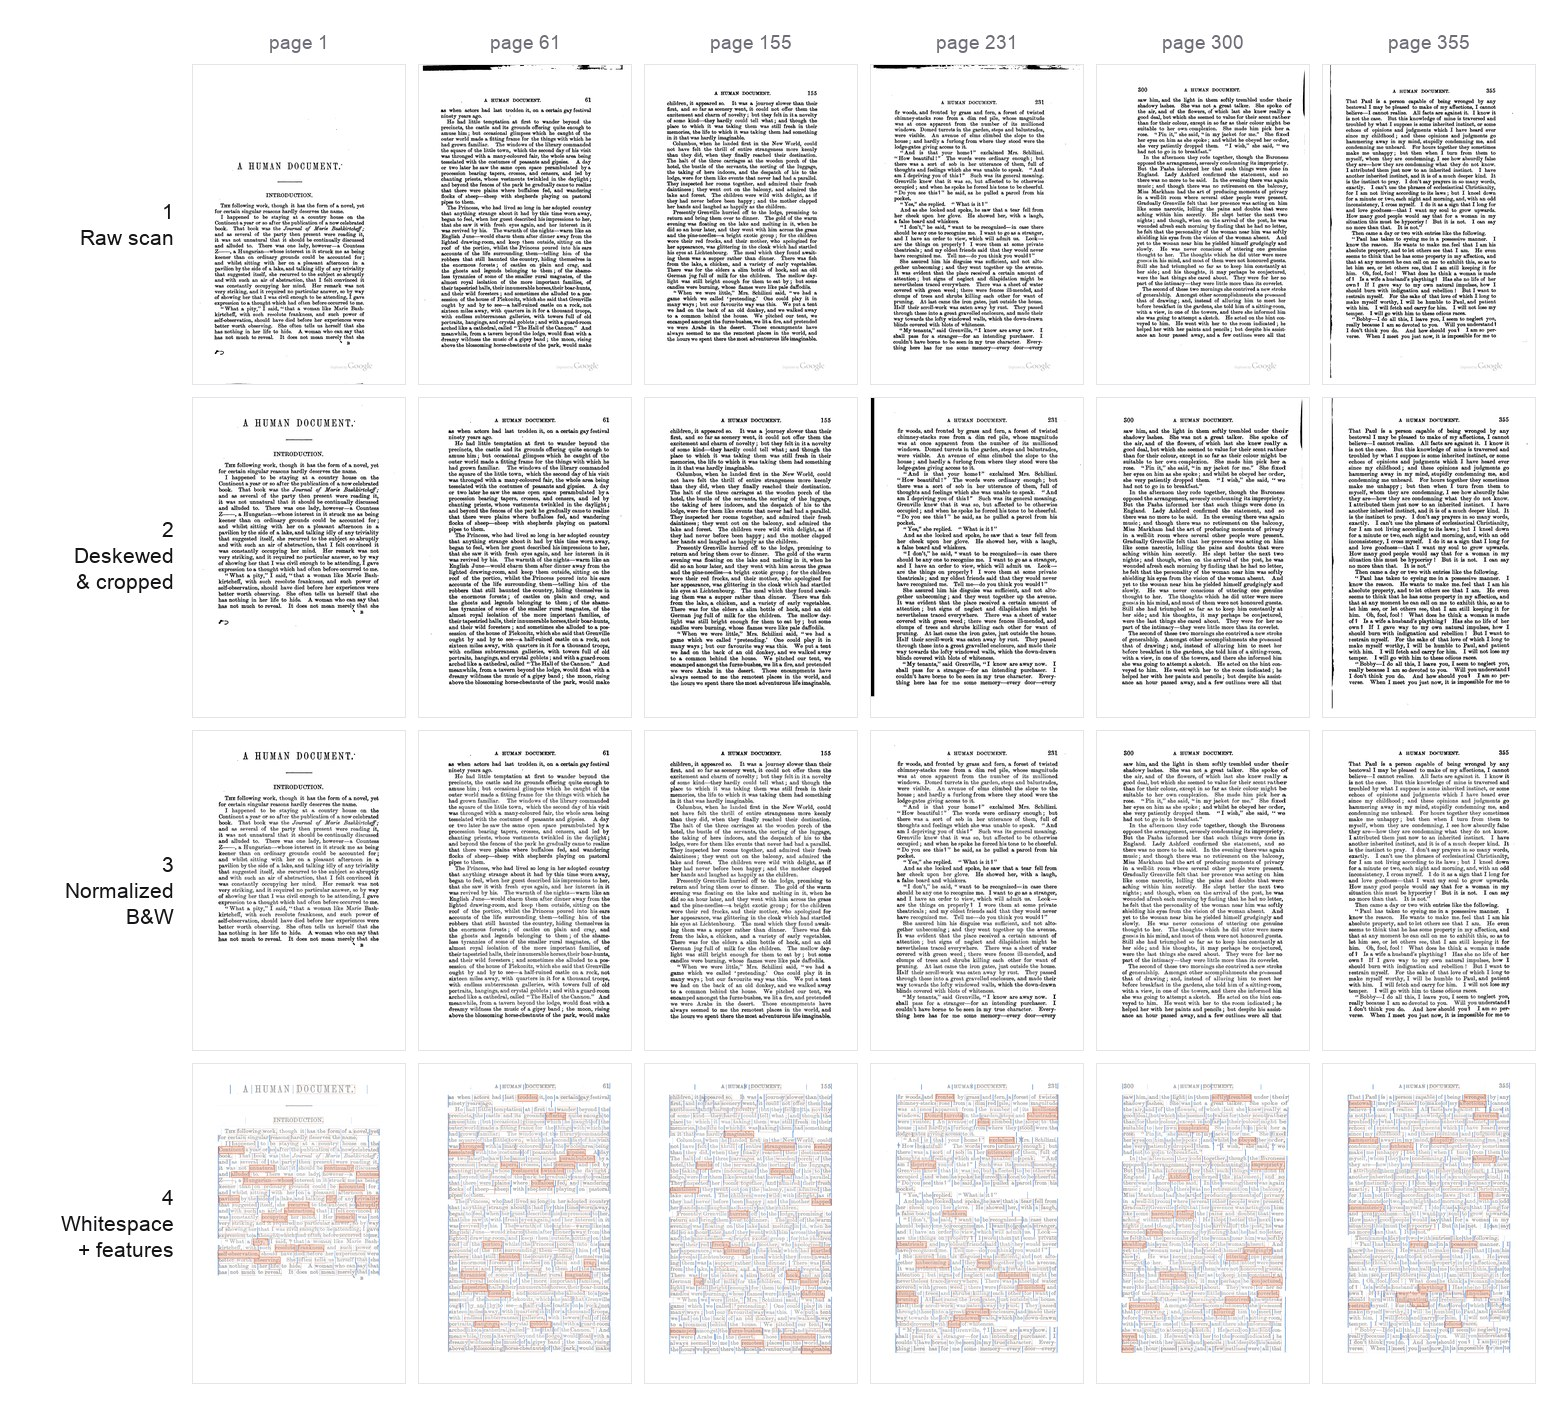
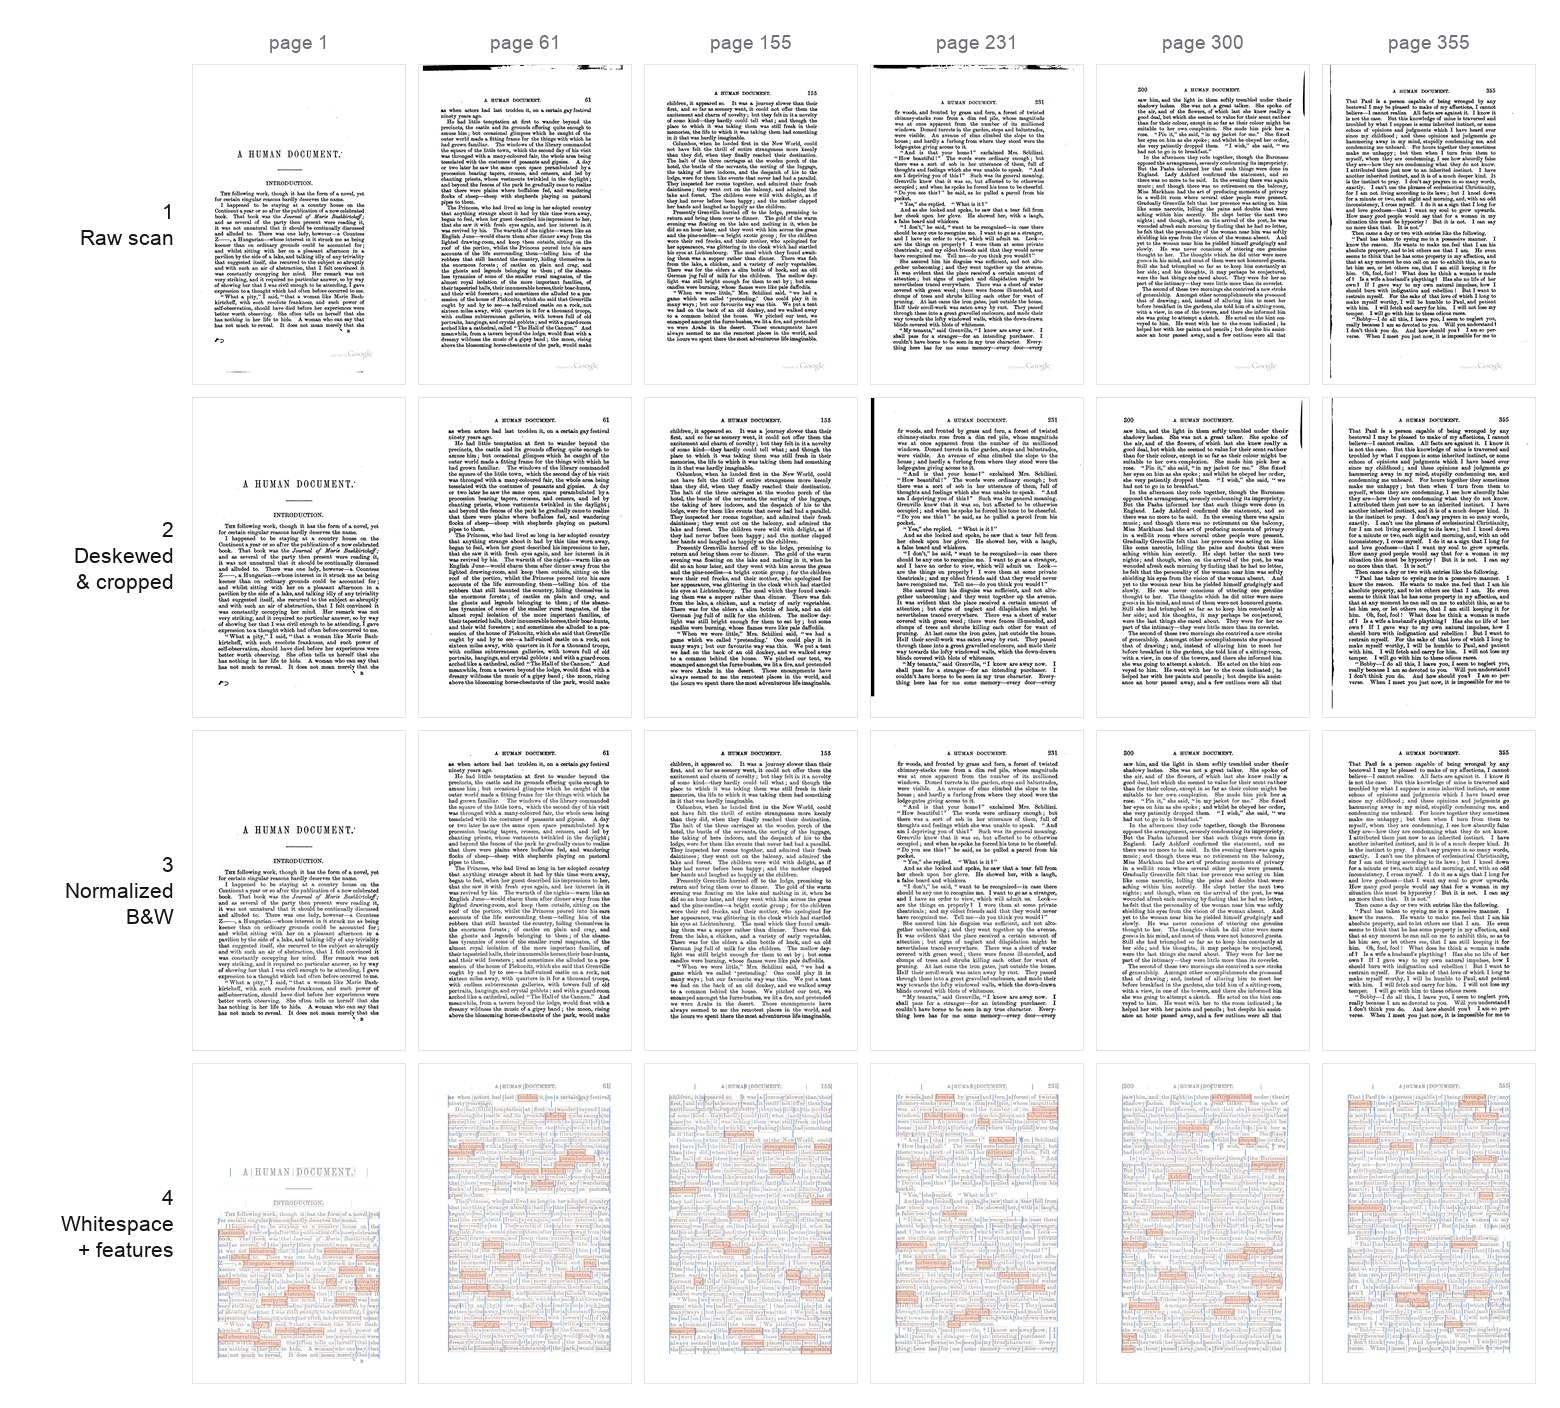
render_showcase: baseline-align the chapter-opening page in the stage collage
Page 1 (the INTRODUCTION opener) fills only the upper part of the sheet, so the
deskew/normalize stages left its text jammed to the top of the cell above a big
empty gap. Rest its last line on the median last-line height of the neighbouring
full pages (per stage, at matching scale) so it aligns with them.

diff --git a/pipeline/render_showcase.py b/pipeline/render_showcase.py
@@ -20,6 +20,7 @@ from __future__ import annotations
 import json
 import sqlite3
 
+import numpy as np
 from PIL import Image, ImageDraw, ImageFont
 
 from config import (
@@ -54,15 +55,35 @@ def _font(size: int) -> ImageFont.FreeTypeFont:
     return ImageFont.load_default()
 
 
-def _contain(img: Image.Image, box_w: int, box_h: int) -> Image.Image:
-    """Fit img inside (box_w, box_h) preserving aspect, centred on paper."""
+def _content_bottom(img: Image.Image, dark: int = 140, min_row: float = 0.015,
+                    bottom_skip: float = 0.05) -> int:
+    """Y of the last row holding real ink (0 → img.height). Ignores the faint
+    grey scan watermark (excluded by the darkness threshold) and any scan-edge
+    artefact in the bottom margin (excluded by bottom_skip), so a short page like
+    a chapter opener reports where its text actually ends, not the page edge."""
+    g = np.asarray(img.convert("L"))
+    lim = int(g.shape[0] * (1 - bottom_skip))
+    rows = np.where((g[:lim] < dark).mean(axis=1) > min_row)[0]
+    return int(rows.max()) + 1 if len(rows) else img.height
+
+
+def _contain(img: Image.Image, box_w: int, box_h: int,
+             baseline: float | None = None) -> Image.Image:
+    """Fit img inside (box_w, box_h) preserving aspect, centred horizontally on
+    paper. When baseline (a y within the box) is given, the image's last inked
+    row is placed on it instead of centring the whole sheet — used for the short
+    chapter-opening page so its final line rests on the same line the neighbouring
+    full pages end on, at the same scale, rather than floating above a big gap."""
     scale = min(box_w / img.width, box_h / img.height)
     resized = img.resize(
         (max(1, round(img.width * scale)), max(1, round(img.height * scale))),
         Image.LANCZOS,
     )
     panel = Image.new("RGB", (box_w, box_h), PAPER)
-    panel.paste(resized, ((box_w - resized.width) // 2, (box_h - resized.height) // 2))
+    ox = (box_w - resized.width) // 2
+    oy = (round(baseline - _content_bottom(img) * scale) if baseline is not None
+          else (box_h - resized.height) // 2)
+    panel.paste(resized, (ox, oy))
     return panel
 
 
@@ -155,9 +176,17 @@ def pipeline_stages(db: sqlite3.Connection, pages: list[int]) -> Image.Image:
         lb = draw.multiline_textbbox((0, 0), label, font=label_font, spacing=6, align="right")
         draw.multiline_text((pad + gutter - 18 - (lb[2] - lb[0]), y + (cell_h - (lb[3] - lb[1])) // 2 - lb[1]),
                             label, fill=INK, font=label_font, spacing=6, align="right")
-        for c, pn in enumerate(pages):
+        imgs = [load(pn) for pn in pages]
+        # the first column is the book's opening page — a chapter head whose text
+        # fills only the upper part of the sheet. Rest its last line on the median
+        # last-line height of the neighbouring full pages (same scale — every page
+        # in a stage shares a size) so it aligns with them instead of floating
+        # above a big gap or being slammed to the frame floor.
+        scale = min(cell_w / imgs[0].width, cell_h / imgs[0].height)
+        baseline = float(np.median([_content_bottom(im) * scale for im in imgs[1:]]))
+        for c, im in enumerate(imgs):
             x = x0 + c * (cell_w + gap)
-            grid.paste(_contain(load(pn), cell_w, cell_h), (x, y))
+            grid.paste(_contain(im, cell_w, cell_h, baseline if c == 0 else None), (x, y))
             draw.rectangle([x, y, x + cell_w - 1, y + cell_h - 1], outline=(228, 228, 233), width=1)
 
     return grid
